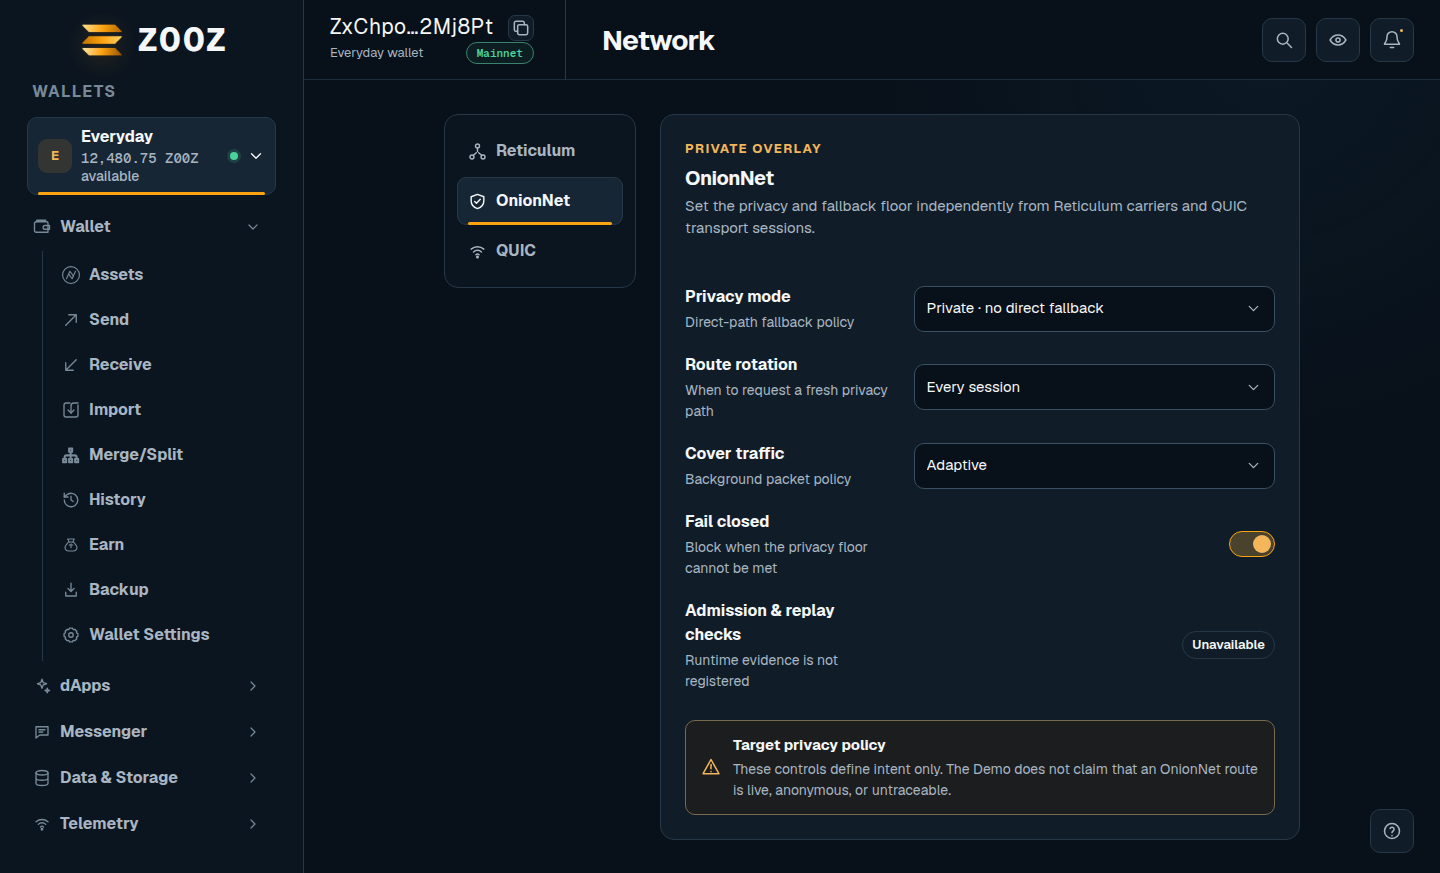
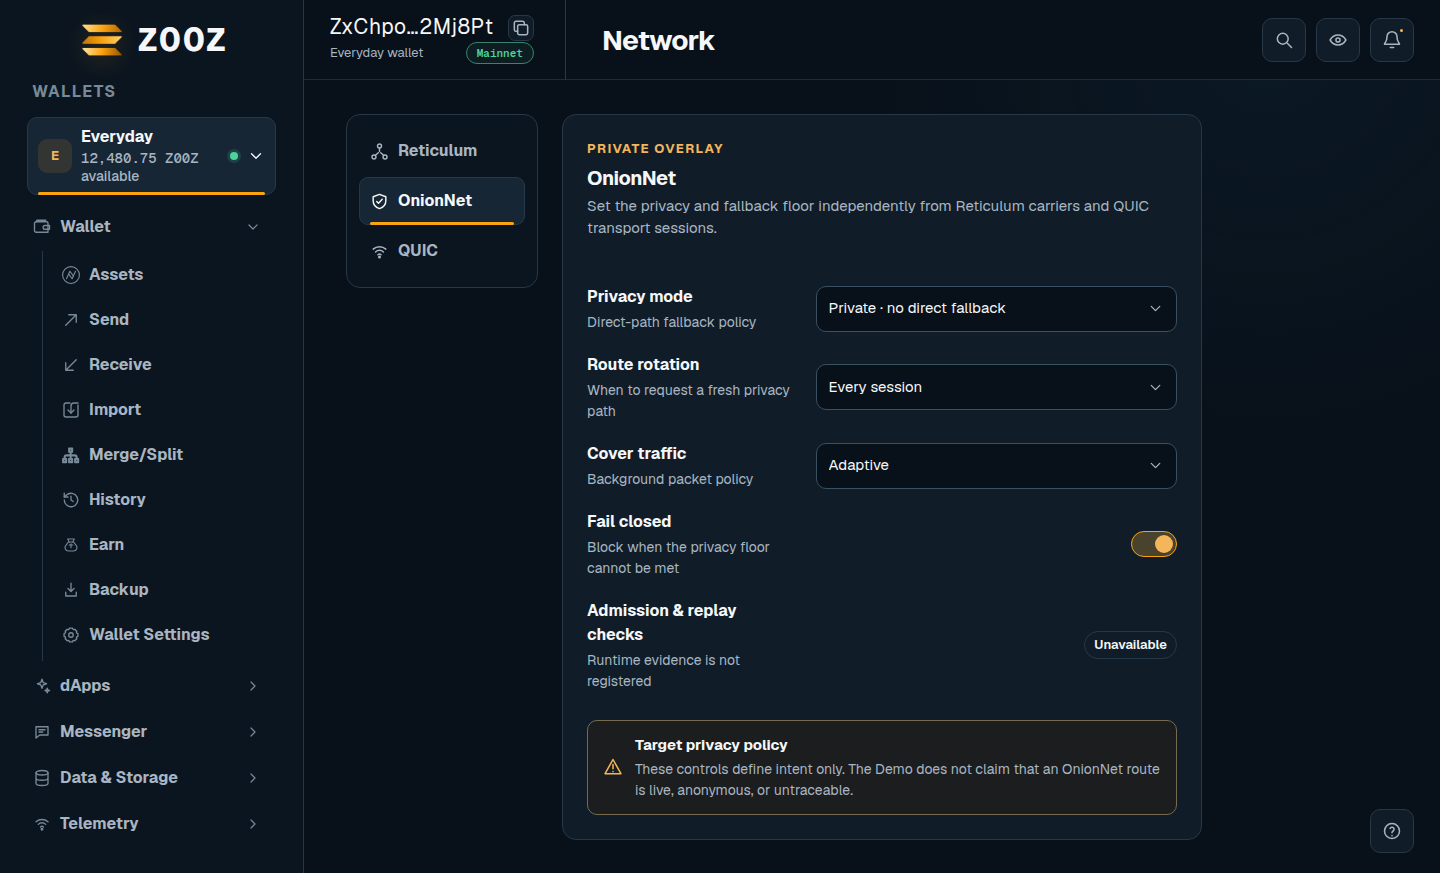
feat(v1.57.0): Align Network workspace with Assets across desktop and mobile
Version bump: 1.56.0 → 1.57.0
Change type: minor

[skip ci]

diff --git a/crates/z00z_ui_ux/demo/smoke.spec.js b/crates/z00z_ui_ux/demo/smoke.spec.js
@@ -2733,7 +2733,7 @@ test("Settings is a navbar accordion and Network alone owns one main-view submen
   await expectNoViewportOverflow(page);
 });
 
-test("Settings views stay centered and cards remain bounded on desktop and mobile", async ({ page }) => {
+test("Settings cards stay bounded and Network reuses the shared Assets workspace anchors", async ({ page }) => {
   const standaloneRoutes = ["settings.general", "settings.notifications", "settings.appearance"];
   const networkRoutes = ["settings.reticulum", "settings.onionnet", "settings.quic"];
   const geometry = () => page.evaluate(() => {
@@ -2754,7 +2754,8 @@ test("Settings views stay centered and cards remain bounded on desktop and mobil
       documentWidth: document.documentElement.scrollWidth,
       view: box(".app-settings-view"),
       workspace: box(".settings-network-workspace"),
-      rail: box(".settings-network-rail"),
+      rail: box(".workspace-layout > .context-rail"),
+      panel: box(".workspace-layout > .workspace-panel"),
       card: box(".app-settings-view .settings-detail"),
     };
   });
@@ -2764,6 +2765,9 @@ test("Settings views stay centered and cards remain bounded on desktop and mobil
     { width: 1167, height: 753 },
   ]) {
     await page.setViewportSize(viewport);
+    await page.goto(`${demoUrl}?route=wallet.assets`);
+    const assets = await geometry();
+
     for (const route of standaloneRoutes) {
       await page.goto(`${demoUrl}?route=${route}`);
       const standalone = await geometry();
@@ -2775,8 +2779,11 @@ test("Settings views stay centered and cards remain bounded on desktop and mobil
     for (const route of networkRoutes) {
       await page.goto(`${demoUrl}?route=${route}`);
       const network = await geometry();
-      expect(network.workspace.width).toBeLessThanOrEqual(857);
-      expect(network.workspace.center).toBeCloseTo(network.view.center, 0);
+      expect(network.workspace.x).toBeCloseTo(assets.panel.x - assets.rail.width - 24, 0);
+      expect(network.workspace.width).toBeCloseTo(assets.panel.right - assets.rail.x, 0);
+      expect(network.rail.x).toBeCloseTo(assets.rail.x, 0);
+      expect(network.rail.width).toBeCloseTo(assets.rail.width, 0);
+      expect(network.card.x).toBeCloseTo(assets.panel.x, 0);
       expect(network.card.width).toBeLessThanOrEqual(641);
       expect(network.card.y).toBeCloseTo(network.rail.y, 0);
       expect(network.card.x - network.rail.right).toBeCloseTo(24, 0);
@@ -3560,9 +3567,16 @@ test("every desktop workspace keeps the same menu-to-window gap as Assets", asyn
     ];
     const surface = selectors.map((selector) => layout.querySelector(selector)).find(Boolean);
     const panel = layout.children[1];
+    const layoutRect = layout.getBoundingClientRect();
     const railRect = rail.getBoundingClientRect();
+    const panelRect = panel.getBoundingClientRect();
     return {
-      gridGap: panel.getBoundingClientRect().left - railRect.right,
+      layoutLeft: layoutRect.left,
+      layoutWidth: layoutRect.width,
+      railLeft: railRect.left,
+      railWidth: railRect.width,
+      panelLeft: panelRect.left,
+      gridGap: panelRect.left - railRect.right,
       surfaceGap: surface.getBoundingClientRect().left - railRect.right,
       surfaceClass: surface.className,
     };
@@ -3581,6 +3595,26 @@ test("every desktop workspace keeps the same menu-to-window gap as Assets", asyn
       const geometry = await workspaceGeometry();
       if (!geometry) continue;
       expect(
+        geometry.layoutLeft,
+        `${route} workspace left anchor at ${width}px`,
+      ).toBeCloseTo(assets.layoutLeft, 0);
+      expect(
+        geometry.layoutWidth,
+        `${route} workspace width at ${width}px`,
+      ).toBeCloseTo(assets.layoutWidth, 0);
+      expect(
+        geometry.railLeft,
+        `${route} rail left anchor at ${width}px`,
+      ).toBeCloseTo(assets.railLeft, 0);
+      expect(
+        geometry.railWidth,
+        `${route} rail width at ${width}px`,
+      ).toBeCloseTo(assets.railWidth, 0);
+      expect(
+        geometry.panelLeft,
+        `${route} panel left anchor at ${width}px`,
+      ).toBeCloseTo(assets.panelLeft, 0);
+      expect(
         geometry.gridGap,
         `${route} grid gap at ${width}px`,
       ).toBeCloseTo(assets.gridGap, 0);
@@ -3590,6 +3624,79 @@ test("every desktop workspace keeps the same menu-to-window gap as Assets", asyn
       ).toBeCloseTo(assets.surfaceGap, 0);
     }
   }
+});
+
+test("workspace anchors stay fixed when local tabs are added or removed", async ({ page }) => {
+  const desktopAnchors = () => page.evaluate(() => {
+    const layout = document.querySelector(".settings-network-workspace");
+    const rail = layout.querySelector(":scope > .context-rail");
+    const panel = layout.querySelector(":scope > .workspace-panel");
+    const layoutRect = layout.getBoundingClientRect();
+    const railRect = rail.getBoundingClientRect();
+    const panelRect = panel.getBoundingClientRect();
+    return {
+      layoutLeft: layoutRect.left,
+      layoutWidth: layoutRect.width,
+      railLeft: railRect.left,
+      railWidth: railRect.width,
+      panelLeft: panelRect.left,
+      panelWidth: panelRect.width,
+      gap: panelRect.left - railRect.right,
+    };
+  });
+  const mobileAnchors = () => page.evaluate(() => {
+    const context = document.querySelector("#mobile-topbar-context");
+    const panel = document.querySelector(".settings-network-workspace > .workspace-panel");
+    const contextRect = context.getBoundingClientRect();
+    const panelRect = panel.getBoundingClientRect();
+    return {
+      contextLeft: contextRect.left,
+      contextTop: contextRect.top,
+      contextWidth: contextRect.width,
+      contextHeight: contextRect.height,
+      panelLeft: panelRect.left,
+      panelWidth: panelRect.width,
+    };
+  });
+  const expectSameAnchors = (actual, expected, label) => {
+    for (const [name, value] of Object.entries(expected)) {
+      expect(actual[name], `${label}: ${name}`).toBeCloseTo(value, 0);
+    }
+  };
+  const varyTabs = async (selector, mode) => {
+    await page.locator(selector).evaluate((nav, change) => {
+      const tabs = [...nav.children];
+      if (change === "add") {
+        for (let index = 0; index < 5; index += 1) {
+          const clone = tabs[index % tabs.length].cloneNode(true);
+          clone.removeAttribute("id");
+          clone.removeAttribute("aria-current");
+          clone.removeAttribute("aria-selected");
+          clone.removeAttribute("data-settings-network-section");
+          nav.append(clone);
+        }
+      } else {
+        [...nav.children].slice(1).forEach((tab) => tab.remove());
+      }
+    }, mode);
+  };
+
+  await page.setViewportSize({ width: 1440, height: 900 });
+  await page.goto(`${demoUrl}?route=settings.reticulum`);
+  const desktopBase = await desktopAnchors();
+  await varyTabs(".settings-network-rail .settings-network-tabs", "add");
+  expectSameAnchors(await desktopAnchors(), desktopBase, "desktop added tabs");
+  await varyTabs(".settings-network-rail .settings-network-tabs", "remove");
+  expectSameAnchors(await desktopAnchors(), desktopBase, "desktop removed tabs");
+
+  await page.setViewportSize({ width: 390, height: 844 });
+  await page.goto(`${demoUrl}?route=settings.reticulum`);
+  const mobileBase = await mobileAnchors();
+  await varyTabs("#mobile-topbar-context .settings-network-tabs", "add");
+  expectSameAnchors(await mobileAnchors(), mobileBase, "mobile added tabs");
+  await varyTabs("#mobile-topbar-context .settings-network-tabs", "remove");
+  expectSameAnchors(await mobileAnchors(), mobileBase, "mobile removed tabs");
+  await expectNoViewportOverflow(page);
 });
 
 test("Watchers roadmap completes typed alert to sanitized evidence across desktop and mobile states", async ({ page }) => {

diff --git a/crates/z00z_ui_ux/demo/styles/components.css b/crates/z00z_ui_ux/demo/styles/components.css
@@ -5356,10 +5356,16 @@ button.permission-row:hover {
 
 .workspace-layout {
   display: grid;
+  width: 100%;
+  min-width: 0;
   align-items: start;
   column-gap: var(--context-nav-content-gap);
   row-gap: 0;
   grid-template-columns: var(--context-rail-width) minmax(0, 1fr);
+}
+
+.workspace-layout > .context-rail {
+  width: 100%;
 }
 
 .workspace-layout > .workspace-panel {
@@ -5398,21 +5404,13 @@ button.permission-row:hover {
 }
 
 .settings-network-workspace {
-  display: grid;
-  width: min(
-    100%,
-    calc(var(--context-rail-width) + var(--context-nav-content-gap) + var(--settings-card-max))
-  );
-  min-width: 0;
-  align-items: start;
-  margin-inline: auto;
-  column-gap: var(--context-nav-content-gap);
-  grid-template-columns: var(--context-rail-width) minmax(0, var(--settings-card-max));
+  margin-inline: 0;
 }
 
 .settings-network-workspace > .settings-detail {
   width: 100%;
   max-width: var(--settings-card-max);
+  justify-self: start;
 }
 
 .settings-network-tabs {
